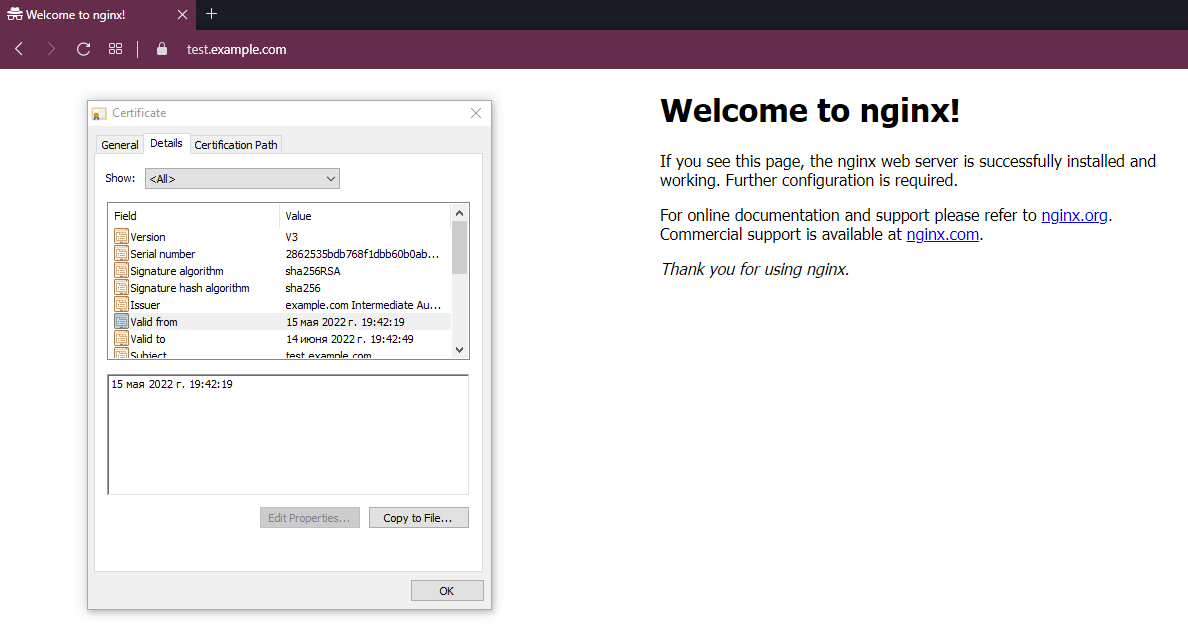
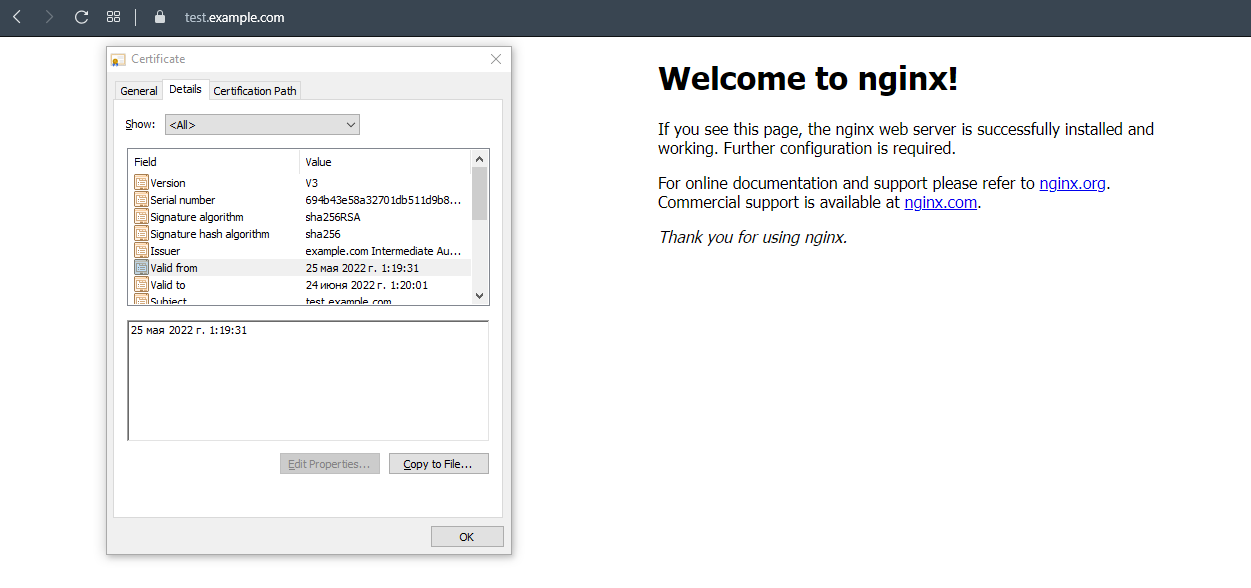
add final checks

Changed region(s): [[0.0, 0.0, 1.0, 0.9796]]

diff --git a/pcs-devsys-diplom/readme.md b/pcs-devsys-diplom/readme.md
@@ -181,6 +181,9 @@ server {
 ```
 #!/bin/bash
 
+export VAULT_ADDR='http://127.0.0.1:8200'
+export VAULT_TOKEN=root
+
 vault write -format=json pki_int/issue/example-dot-com common_name="test.example.com" ttl="730h" > /certs/website.crt
 
 cat website.crt | jq -r .data.certificate > /certs/website.crt.pem
@@ -193,5 +196,39 @@ systemctl restart nginx.service
 
 # Поместим скрипт в crontab и проверим
 ```
-47 23 15 * * /certs/certs.sh
+administrator@server-pg-2:/certs$ sudo crontab -l
+# Edit this file to introduce tasks to be run by cron.
+# 
+# Each task to run has to be defined through a single line
+# indicating with different fields when the task will be run
+# and what command to run for the task
+# 
+# To define the time you can provide concrete values for
+# minute (m), hour (h), day of month (dom), month (mon),
+# and day of week (dow) or use '*' in these fields (for 'any').
+# 
+# Notice that tasks will be started based on the cron's system
+# daemon's notion of time and timezones.
+# 
+# Output of the crontab jobs (including errors) is sent through
+# email to the user the crontab file belongs to (unless redirected).
+# 
+# For example, you can run a backup of all your user accounts
+# at 5 a.m every week with:
+# 0 5 * * 1 tar -zcf /var/backups/home.tgz /home/
+# 
+# For more information see the manual pages of crontab(5) and cron(8)
+# 
+# m h  dom mon dow   command
+20 18 24 * * cd /certs/ && bash certs.sh
+administrator@server-pg-2:/certs$ ls -l /certs/  
+total 20
+-rwxrwxrwx 1 administrator administrator  468 May 24 16:46 certs.sh
+-rwxrwxrwx 1 administrator administrator    0 May 15 16:42 test.txt
+-rwxrwxrwx 1 root          root          6057 May 24 18:20 website.crt
+-rw-r--r-- 1 root          root          2567 May 24 18:20 website.crt.pem
+-rwxrwxrwx 1 administrator administrator 1675 May 24 18:20 website.key
+administrator@server-pg-2:/certs$ date
+Tue 24 May 2022 06:23:12 PM UTC
+administrator@server-pg-2:/certs$
 ```
